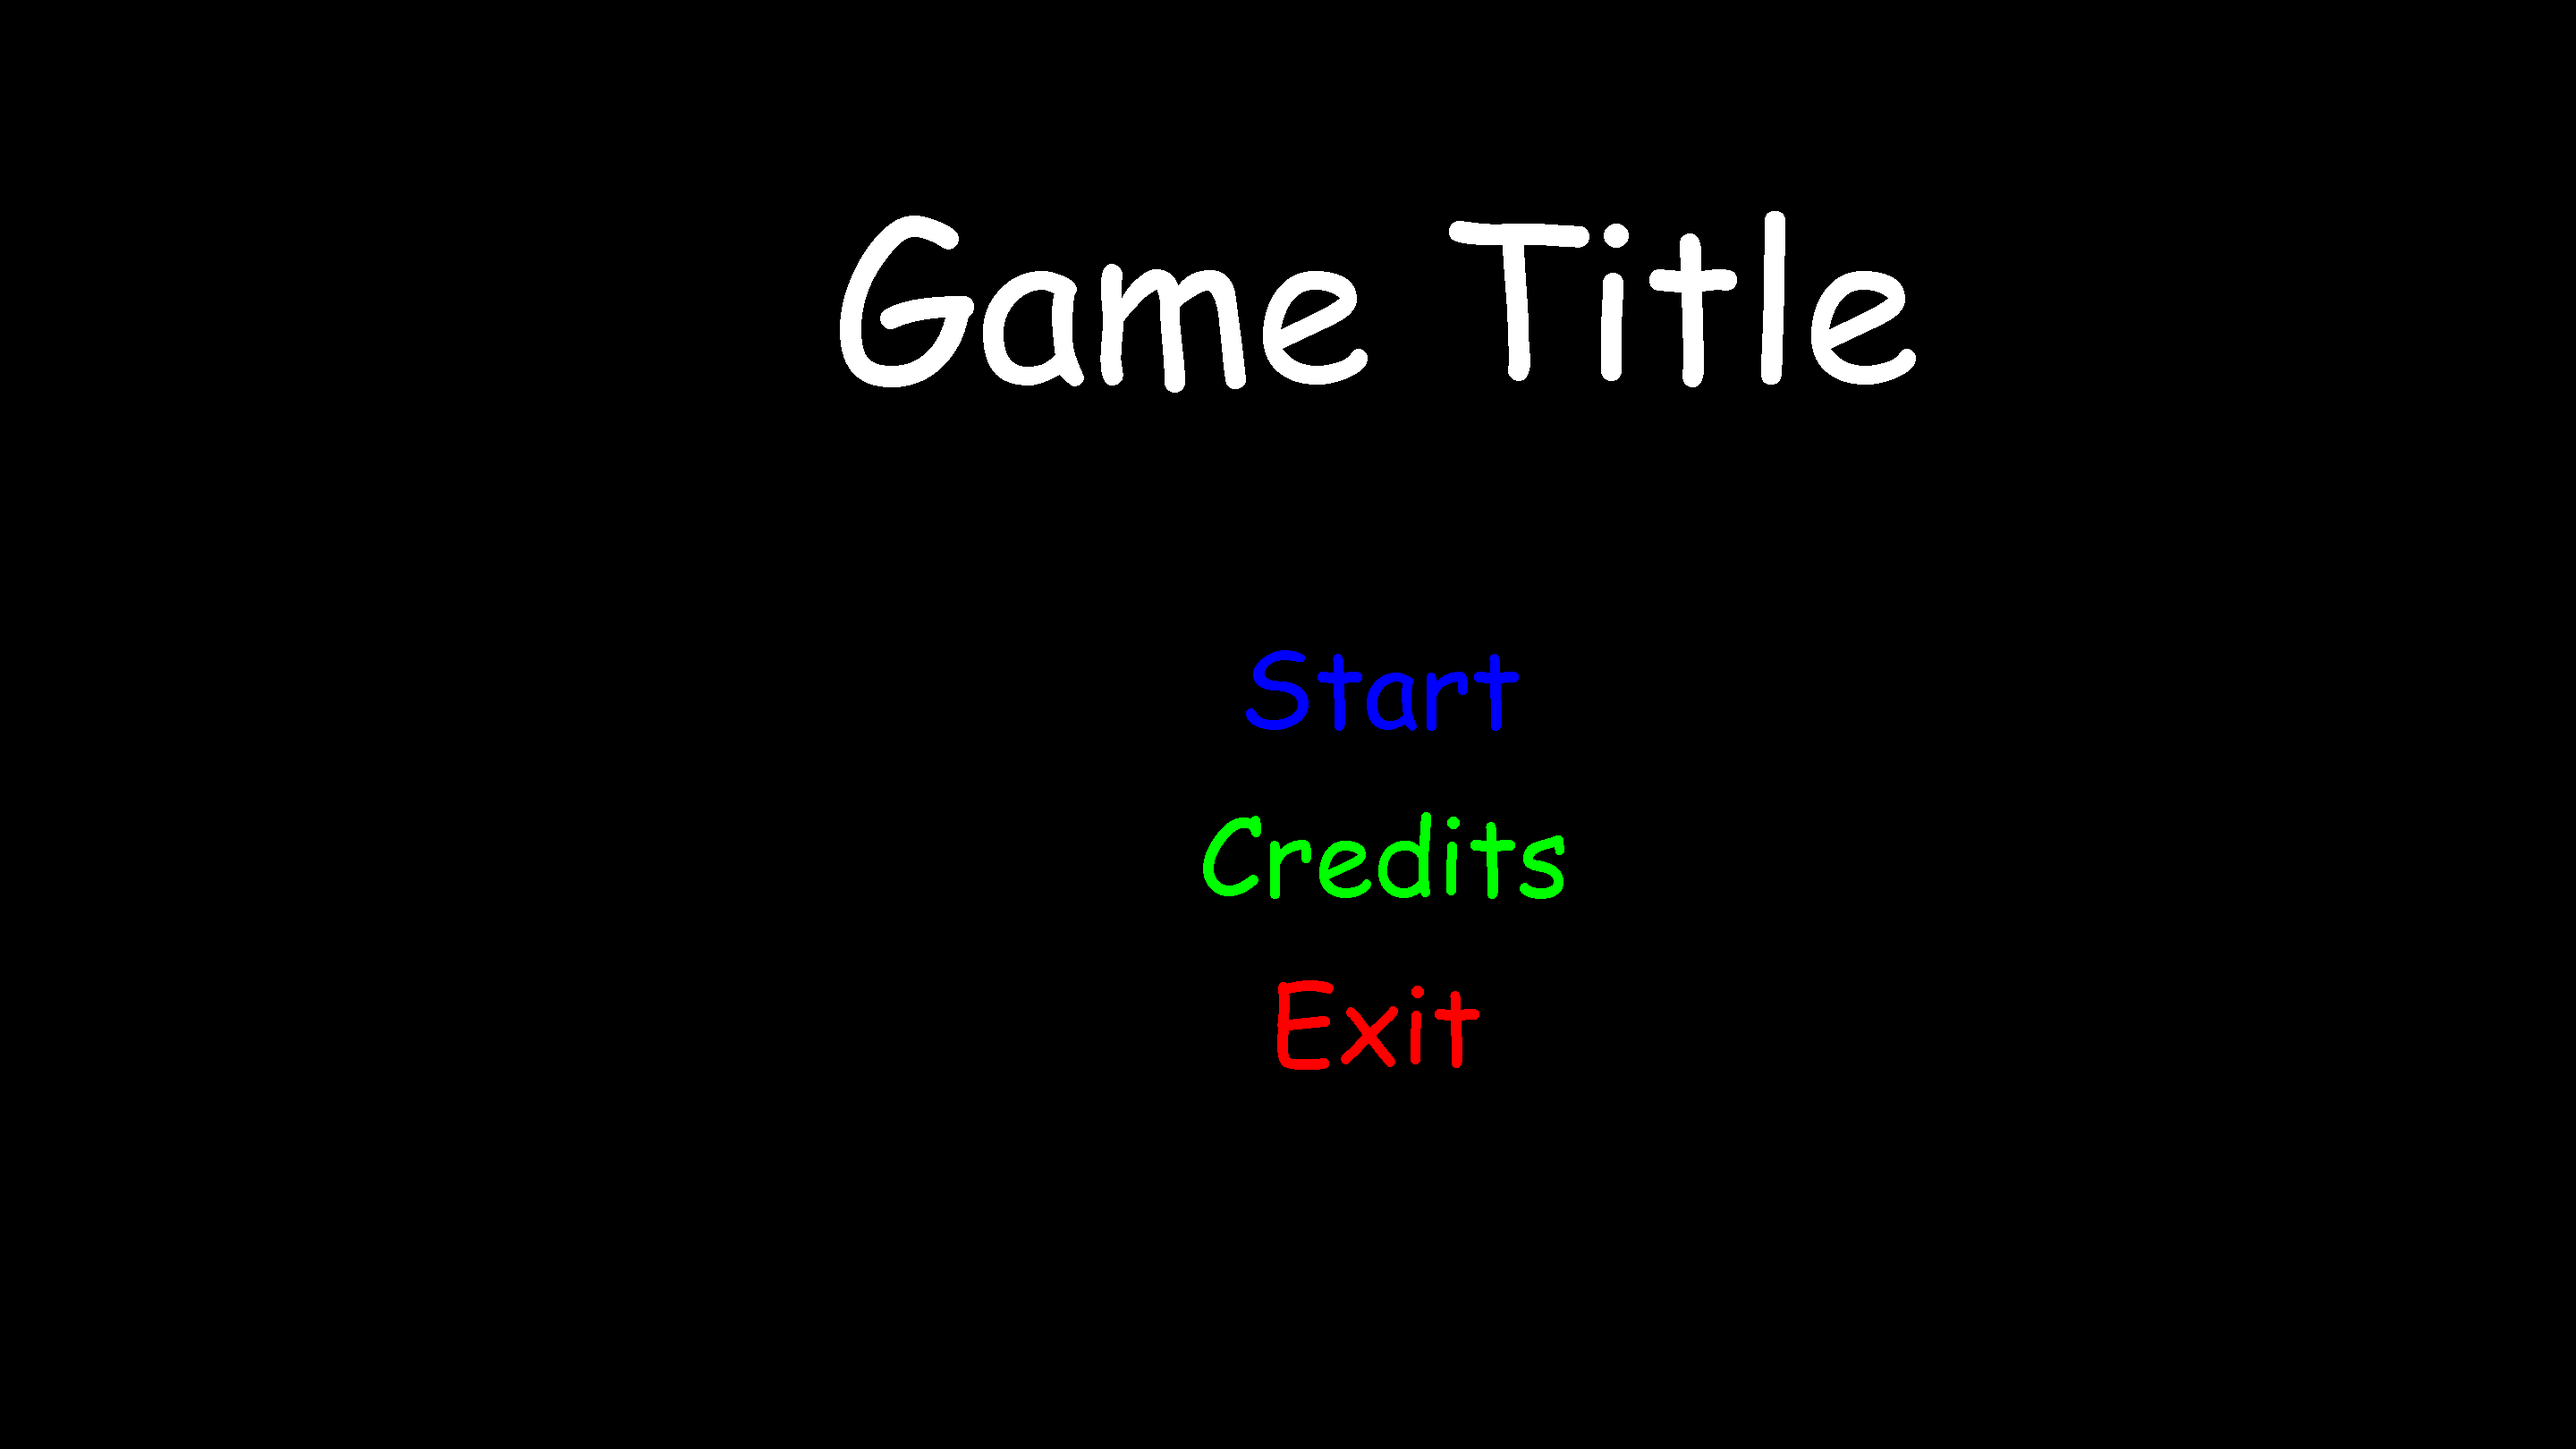
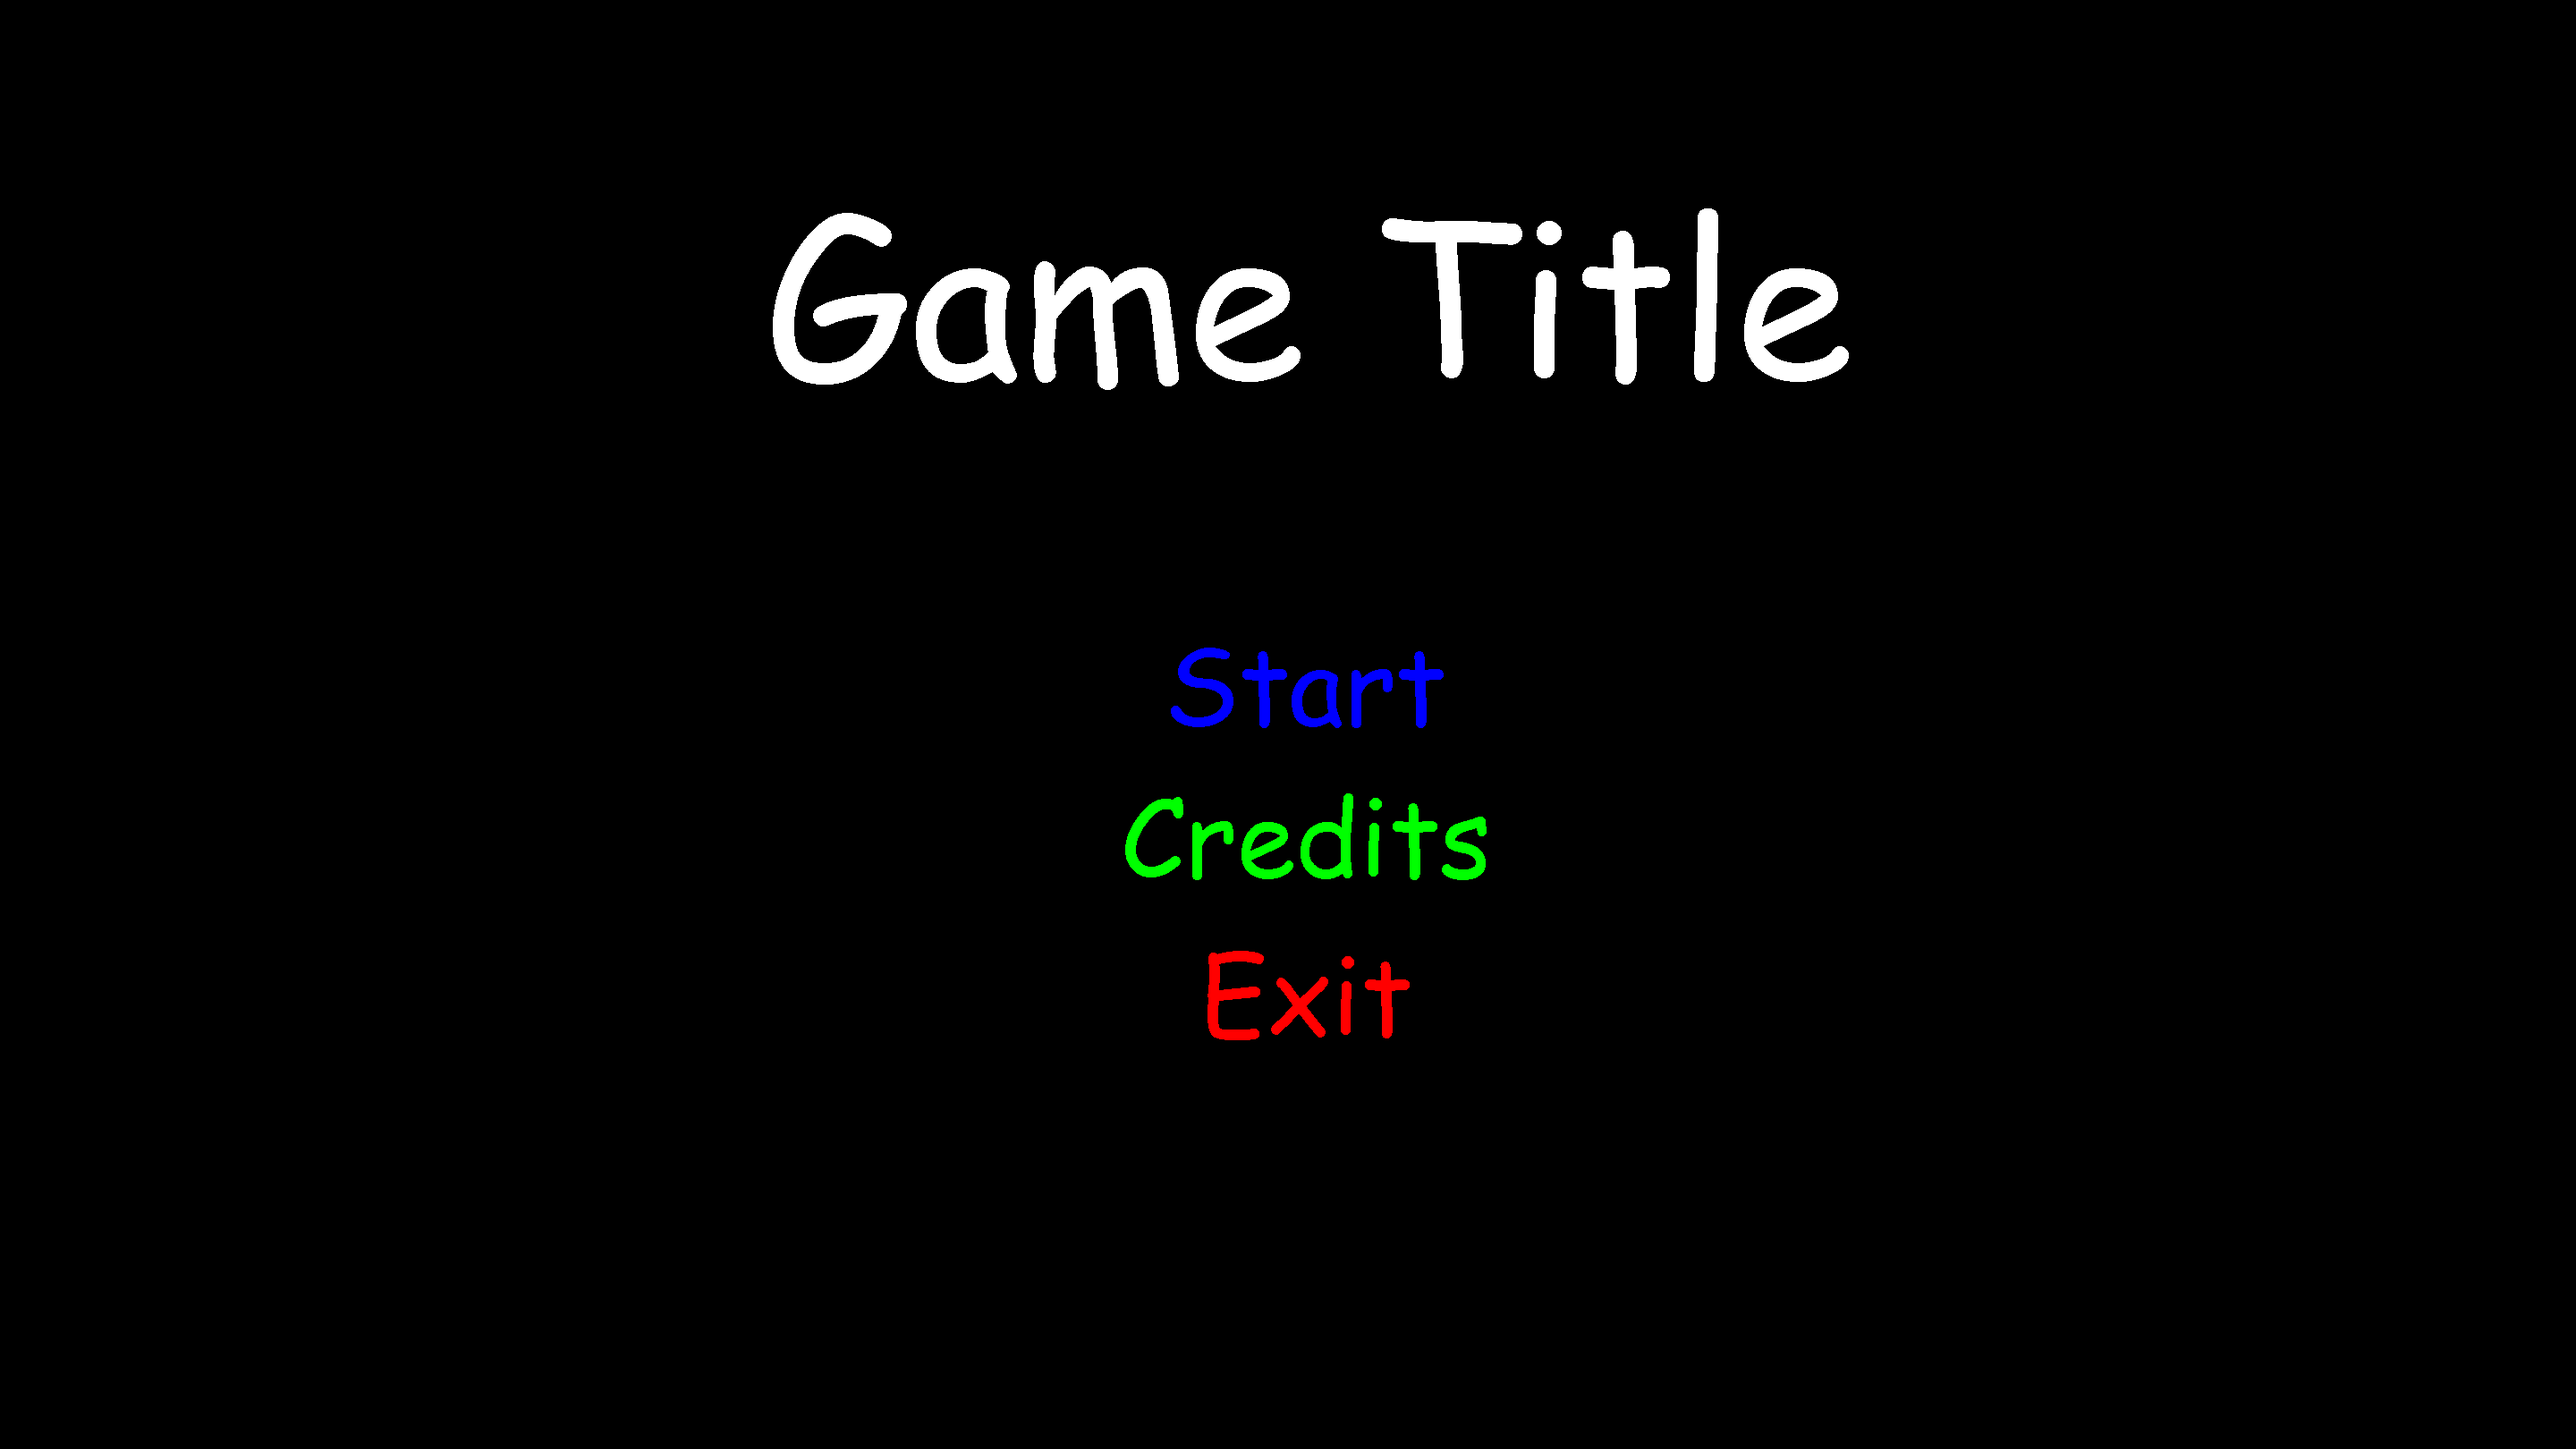
fullscreen

diff --git a/Scripts/titleScreenCanvas.js b/Scripts/titleScreenCanvas.js
@@ -4,25 +4,52 @@ const ctx = canvas.getContext("2d");
 const img = new Image();
 img.src = 'Images/titleScreen.png';
 
+const img2 = new Image();
+img2.src = 'Images/titleScreenStartHover.png';
+
+const img3 = new Image();
+img3.src = 'Images/titleScreenCreditsHover.png';
+
+const img4 = new Image();
+img4.src = 'Images/titleScreenExitHover.png';
+
+
+
+let currentImg = img;
+
+canvas.addEventListener('mousemove', (event) => {
+  const rect = canvas.getBoundingClientRect();
+  const hoverX = event.clientX - rect.left;
+  const hoverY = event.clientY - rect.top;
+  console.log(hoverX+' '+hoverY);
+
+  if (hoverX >= 530 && hoverX <= 730 && hoverY >= 230 && hoverY <= 290) {
+      currentImg = img2; 
+    } else if (hoverX >= 530 && hoverX <= 730 && hoverY >= 295 && hoverY <= 350) {
+      currentImg = img3; 
+    } else if (hoverX >= 530 && hoverX <= 730 && hoverY >= 355 && hoverY <= 400) {
+      currentImg = img4; 
+    } else {
+      currentImg = img; 
+    }
+  });
+
 canvas.addEventListener('click', (event) => {
   const rect = canvas.getBoundingClientRect();
   const x = event.clientX - rect.left;
   const y = event.clientY - rect.top;
-  alert(x + ' ' + y);
 
-    if (x >= 360 && x <= 500) {
-        if (y >= 210 && y <= 260)
-            location.replace("http://localhost:8080/FeverFairy/levelSelect.html")
-        if (y >= 265 && y <= 320)
-            location.replace("http://localhost:8080/FeverFairy/credits.html")
-    }
+  if (x >= 530 && x <= 730) {
+    if (y >= 230 && y <= 290)
+      location.replace("http://localhost:8080/FeverFairy/levelSelect.html");
+    else if (y >= 295 && y <= 350)
+      location.replace("http://localhost:8080/FeverFairy/credits.html");
+  }
 });
 
 function draw() {
   ctx.clearRect(0, 0, canvas.width, canvas.height);
-  ctx.drawImage(img, 0, 0, canvas.width, canvas.height);
- 
-
+  ctx.drawImage(currentImg, 0, 0, canvas.width, canvas.height);
   requestAnimationFrame(draw);
 }
 

diff --git a/Scripts/canvas.js b/Scripts/canvas.js
@@ -8,6 +8,9 @@ const img = new Image();
 let room = "Kitchen"
 img.src = 'Images/GameOn' + room + '.png'; // backround ima ge
 
+const sten = new Image();
+sten.src = 'Images/BollTEST3 mindre.png'; // stone
+
 const door1 = new Image();
 door1.src = 'Images/Door1.png'; // door image
 const door2 = new Image();
@@ -49,6 +52,7 @@ let currentY = mouseY;
 document.addEventListener('mousemove', (e) => {
     mouseX = e.clientX;
     mouseY = e.clientY;
+    console.log (mouseX + ' ' + mouseY)
 });
 
 function draw() {
@@ -72,7 +76,7 @@ function draw() {
     ctx.clip();
 
     ctx.drawImage(img, -backgroundgOffsetX, -backroundgOffsetY, canvas.width, canvas.height);
-
+    ctx.drawImage(sten,277, 327, 50, 50);
     let door1Size = getImgScaled(door1.naturalWidth, door1.naturalHeight);
     ctx.drawImage(door1, -backgroundgOffsetX, -backroundgOffsetY, door1Size.X, door1Size.Y)
     let door2Size = getImgScaled(door2.naturalWidth, door2.naturalHeight);
@@ -97,7 +101,7 @@ window.addEventListener('click', function(event) {
     const x = event.clientX;
     const y = event.clientY;
 
-    if (room == "Kitchen" && context.isPointInPath(inBath, x, y)) {
+    if (room == "Kitchen" && ctx.isPointInPath(inBath, x, y)) {
         room = "Bathroom"
         img.src = 'Images/GameOn' + room + '.png';
     }

diff --git a/Scripts/levelSelectCanvas.js b/Scripts/levelSelectCanvas.js
@@ -18,14 +18,15 @@ canvas.addEventListener('click', (event) => {
   const x = event.clientX - rect.left;
   const y = event.clientY - rect.top;
 
-  if (y >= 165 && y <= 330) {
-    if ((x >= 215 && x <= 290) || (x >= 515 && x <= 580)) {
+
+  if (y >= 150 && y <= 425) {
+    if ((x >= 290 && x <= 400) || (x >= 840 && x <= 945)) {
         if (currentImg == img) {
         currentImg = img4;
         } else if (currentImg == img4) {
         currentImg = img;
         }
-    } else if (x >= 300 && x <= 500) {
+    } else if (x >= 420 && x <= 945) {
         if (currentImg == img) {
         location.replace("http://localhost:8080/FeverFairy/hardGame.html")
         } else if (currentImg == img4) {
@@ -44,11 +45,11 @@ function draw() {
 
   ctx.font = "50px Arial";
   ctx.fillStyle = "white";
-  ctx.fillText("Select difficulty level", 175, 80);
+  ctx.fillText("Select difficulty level", 400, 80);
 
-  ctx.drawImage(currentImg, 300, 166, 200, 166);
-  ctx.drawImage(img2, 220, 220, 55, 55);
-  ctx.drawImage(img3, 525, 220, 55, 55);
+  ctx.drawImage(currentImg, 420, 165, 400, 250);
+  ctx.drawImage(img2, 305, 250, 80, 80);
+  ctx.drawImage(img3, 855, 250, 80, 80);
 
   requestAnimationFrame(draw);
 }

diff --git a/index.html b/index.html
@@ -8,7 +8,7 @@
     <script src="Scripts/titleScreenCanvas.js" defer></script>
 </head>
 <body> 
-    <canvas id="titleScreen" width="800" height="500" style="border:1px solid #000;"></canvas>
+    <canvas id="titleScreen" width="1250" height="550" style="border:1px solid #000;"></canvas>
 
         <div style="display:none;">
             <img id="easy" src="Images/titleScreen.png">

diff --git a/levelSelect.html b/levelSelect.html
@@ -8,7 +8,7 @@
     <script src="Scripts/levelSelectCanvas.js" defer></script>
 </head>
 <body> 
-    <canvas id="levelSelect" width="800" height="500" style="border:1px solid #000;"></canvas>
+    <canvas id="levelSelect" width="1250" height="550" style="border:1px solid #000;"></canvas>
 
         <div style="display:none;">
             <img id="easy" src="Images/easyLevel.png">
